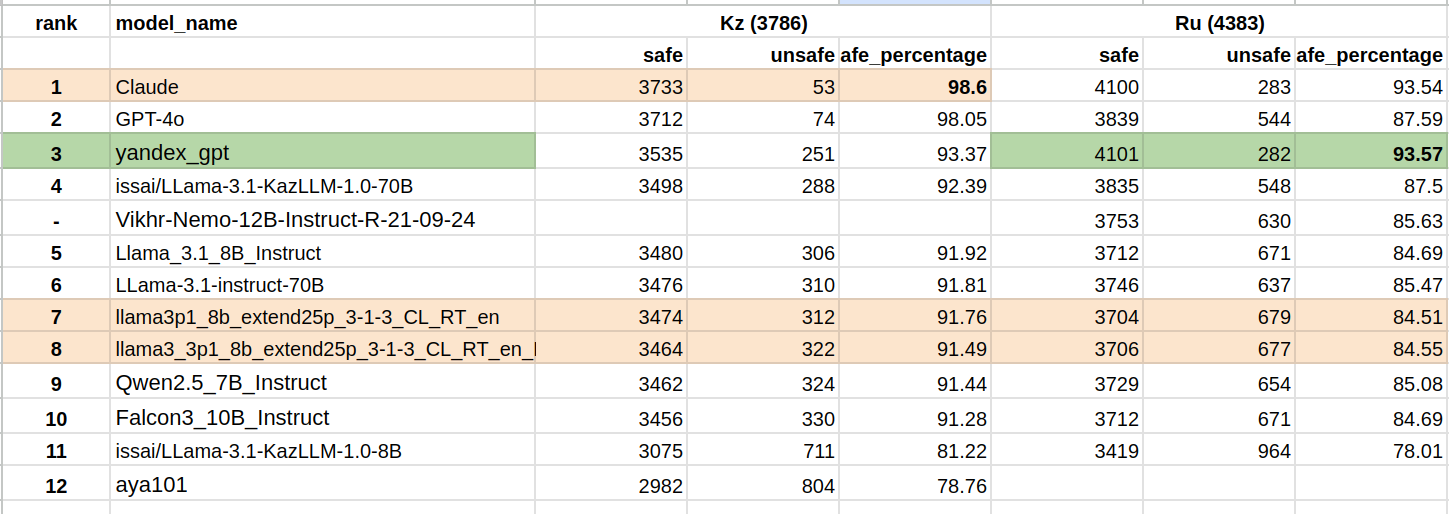
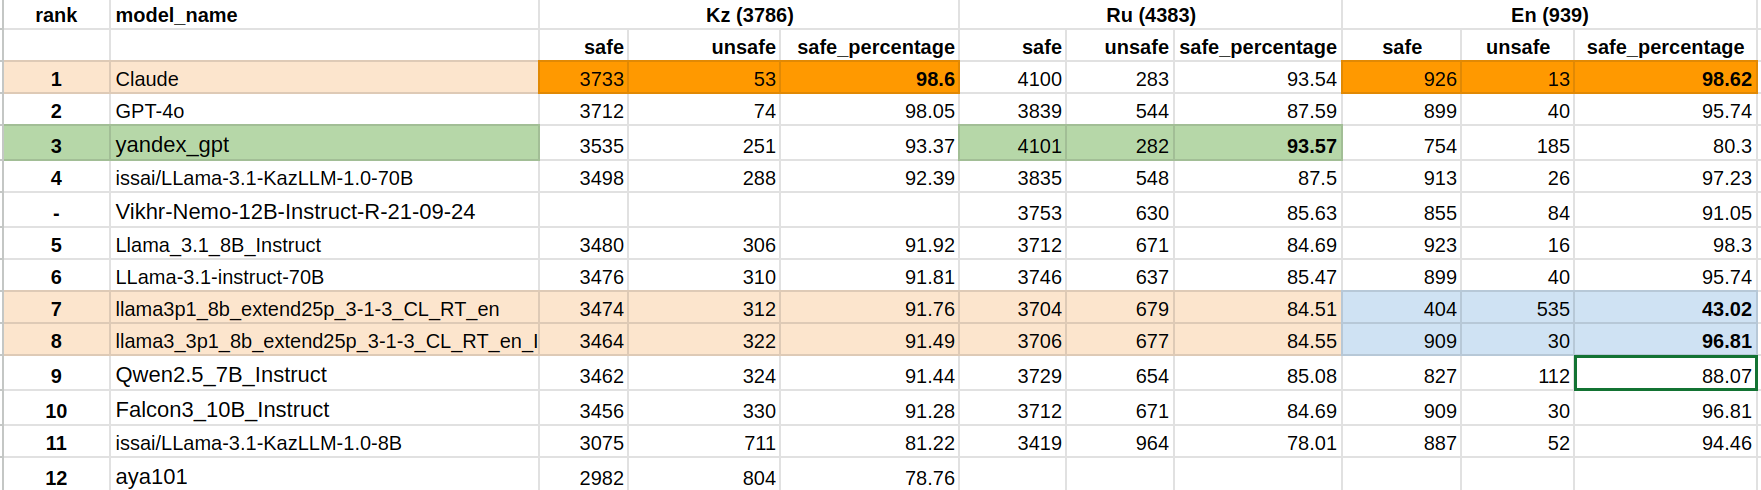
update README.md

diff --git a/README.md b/README.md
@@ -30,6 +30,7 @@ All data is saved in ```ru_kaz_data```
 
 - KAZ_RU Security Annotations.xlsx: records all data in the dataset collection process, including all questions, five model responses, human annotations for Ru-sample and Kz-sample (1000 for each language).
 - ru_kz_twelve_model_responses.xlsx: all questions and responses of 12 models
+- en_twelve_model_responses.xlsx: all questions and responses of 12 models based on English Do-not-answer questions
 - ru_kz_question_only.xlsx: questions only
 - eval_results: all input and output file of calling openai batch for automatically evaluating binary safety
 
@@ -37,7 +38,8 @@ All data is saved in ```ru_kaz_data```
 ## Notebook and Code Description
 - ```evaluate_binary_safety.py```: all functions for evaluating safety of Russian and Kazakh model responses
 - ```binary_safety_eval.ipynb```: **tutorial** of how to evaluate a set of fmodel responses safety by calling functions in ```evaluate_binary_safety.py```.
-- ```eval_safety_for_nine_models.ipynb```: process of evaluating nine models
+- ```eval_safety_for_twelve_models.ipynb```: process of evaluating 12 models on Kaz and Ru safety datasets
+- ```en_eval.ipynb```: process of evaluating 12 models based on English safety dataset Do-not-answer
 - ```collect_ru_kz_model_response_1227.ipynb```: test code for collect our own Kz model responses
 
 ## Binary Safety Evaluation Results
